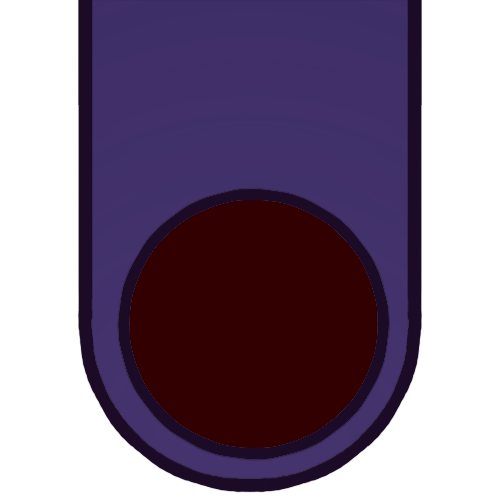
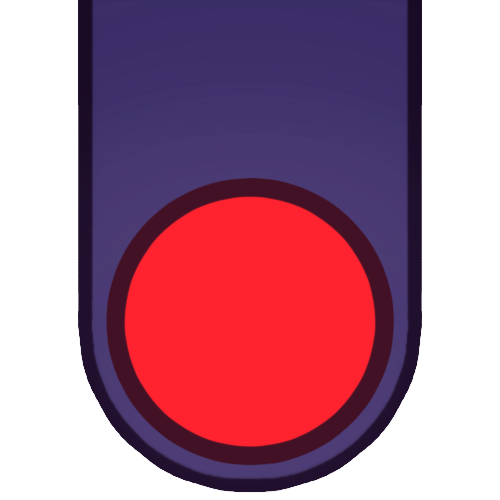
Implementation: New Intro & Game Over Screen

Changed region(s): [[0.21, 0.33, 0.81, 0.93]]

diff --git a/src/project.py b/src/project.py
@@ -16,7 +16,8 @@ def main():
     score = 0
     pass_pipe = False
     font = pygame.font.SysFont("Bauhaus 93", 100)
-    font_color = (255, 0, 0)
+    font_II = pygame.font.SysFont("Bauhaus 93", 120)
+    font_color = (255, 248, 239)
     background = pygame.image.load("FF_Background.png")
     background_dummy = pygame.transform.scale(background, (1600, 1000))
     foreground_dummy = pygame.image.load("FF_Foreground.png")
@@ -82,8 +83,8 @@ def main():
         # intro image spawn
         if intro == True:
             intro_image = pygame.image.load("FF_Intro.png")
-            intro_image_dummy = pygame.transform.scale(intro_image, (1500, 1000))
-            screen.blit(intro_image_dummy, (0, -50))
+            intro_image_dummy = pygame.transform.scale(intro_image, (1470, 1020))
+            screen.blit(intro_image_dummy, (0, -30))
 
         # player start & quit
         for event in pygame.event.get():
@@ -129,7 +130,7 @@ def main():
         if score_counter == True:
             def draw_text(text, font, text_col, x, y):
                 img = font.render(text, True, text_col)
-                screen.blit(img, (77, 48))
+                screen.blit(img, (76, 46))
             if len(pipe_group) > 0:
                 if player_group.sprites()[0].rect.left > pipe_group.sprites()[0].rect.left\
                     and player_group.sprites()[0].rect.right < pipe_group.sprites()[0].rect.right\
@@ -144,12 +145,12 @@ def main():
         # game-end image spawn
         if game_end == True:
             gameEnd_image = pygame.image.load("FF_GameEnd.png")
-            gameEnd_image_dummy = pygame.transform.scale(gameEnd_image, (1500, 1000))
-            screen.blit(gameEnd_image_dummy, (0, -50))
-            def draw_text(text, font, text_col, x, y):
-                img = font.render(text, True, text_col)
-                screen.blit(img, (700, 500))
-            draw_text(str(round(score)), font, (255,255, 255), int(100 / 2), 20)
+            gameEnd_image_dummy = pygame.transform.scale(gameEnd_image, (1470, 1020))
+            screen.blit(gameEnd_image_dummy, (0, -30))
+            def draw_text(text, font_II, text_col, x, y):
+                img = font_II.render(text, True, text_col)
+                screen.blit(img, (908, 501.5))
+            draw_text(str(round(score)), font_II, (255, 255, 255), int(100 / 2), 20)
 
         pygame.display.update()
         clock.tick(fps)
